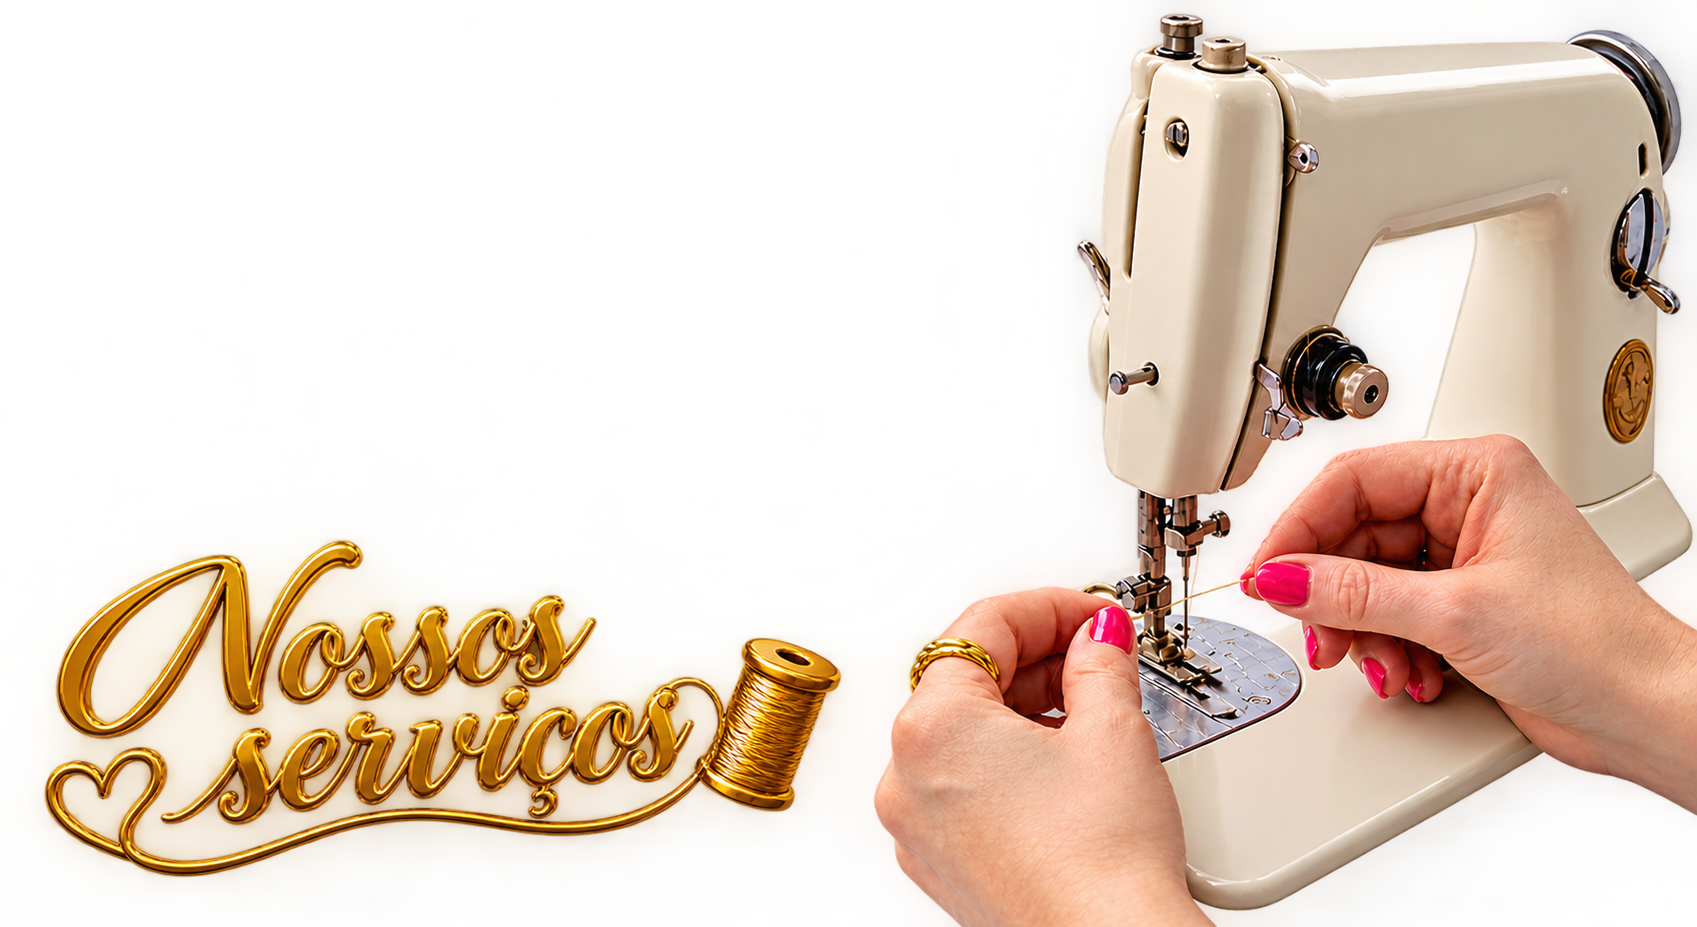
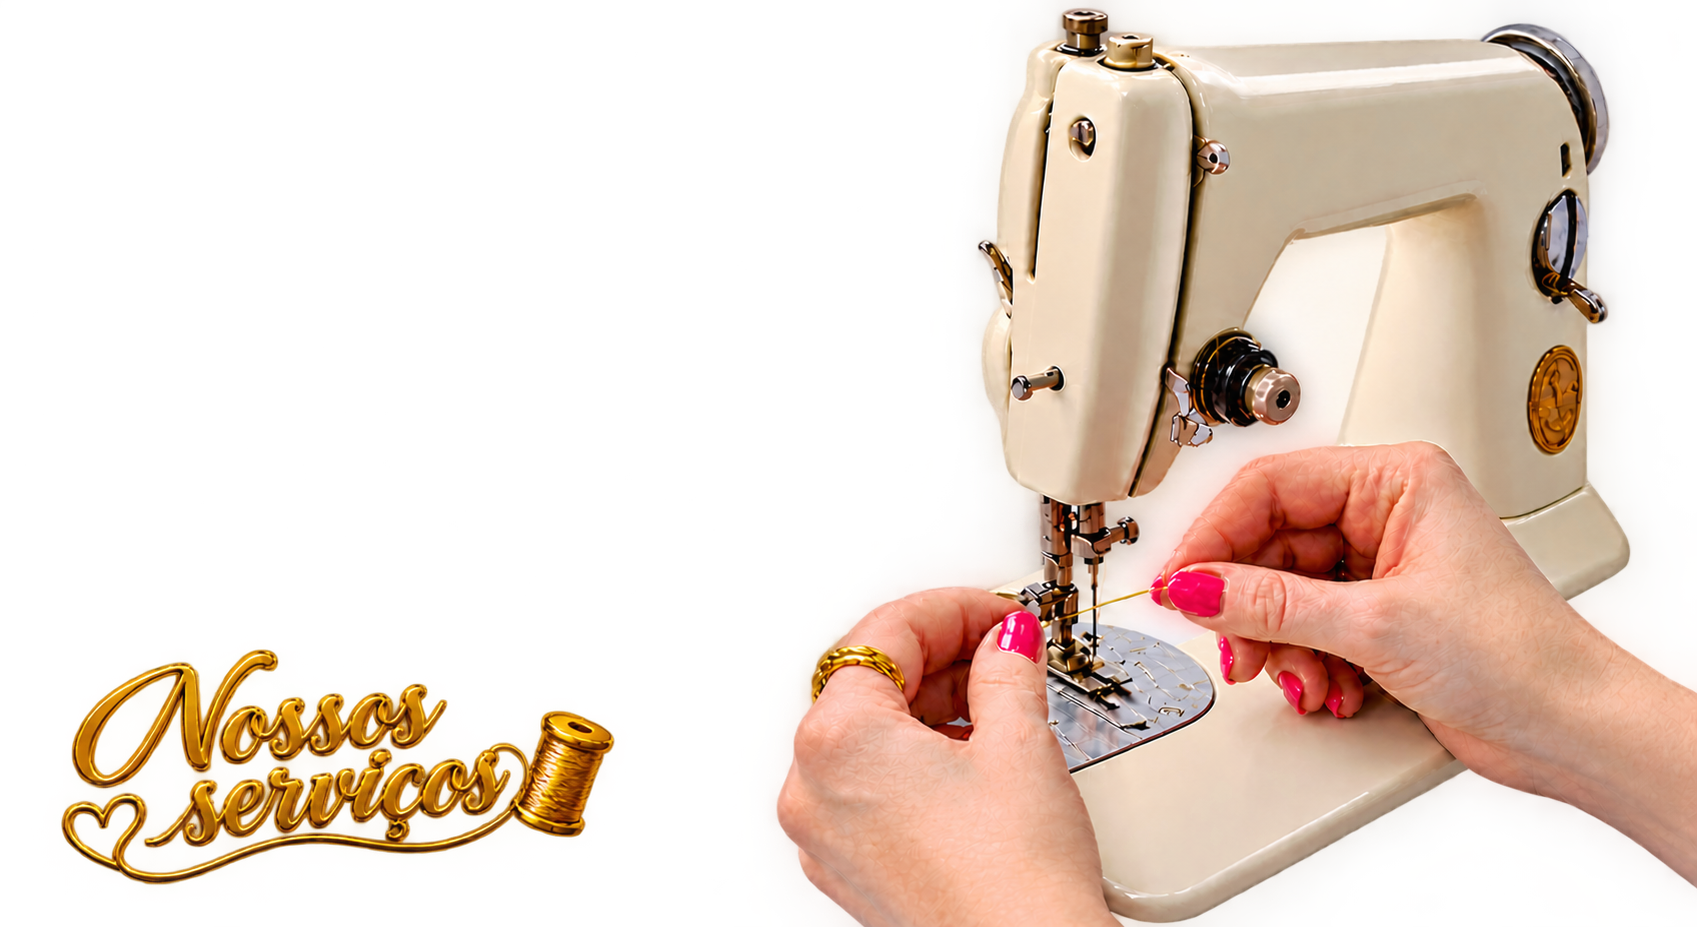
Add files via upload

diff --git a/index.html b/index.html
@@ -11,9 +11,11 @@
 <link rel="preconnect" href="https://fonts.gstatic.com" crossorigin>
 <link href="https://fonts.googleapis.com/css2?family=Bilbo+Swash+Caps&family=Lora:ital,wght@0,400..700;1,400..700&display=swap" rel="stylesheet">
 
+<style> li::marker{color:Gold}</style>
+
 
 <style>
-h2{font-family:"Lora:ital",serif;font-size:28px}
+h2{font-family:"Lora:ital",serif;font-size:20px}
 h1{font-family:"Great Vibes",serif;font-size:70px}
 
 body{background-image:url("Flor de fundo do site.png");color:white;background-size:cover;background-repeat:no repeat;background-attachment:fixed;background-position:center}
@@ -41,20 +43,21 @@ img{border:5px solid none} </style></head>
 <script> function SaibaMais1() {let texto=document.getElementById("informação")
 if(texto.style.display==="none"){texto.style.display="block";}else{texto.style.display= "none";}} </script>
 
-<h1><a href="https://wa.me/5519991768072"><br><img src="Whats app Icone.png" width="10%"></a>
+<h1><a href="https://wa.me/5519991768072"><br><img src="Whats app Icone.png" width="15%"></a>
 
 
 <a href="https://www.google.com.br/maps/dir/-23.053448,-47.0130342/13285-880,+R.+Jo%C3%A3o+Luis+Rodrigues+-+Capela,+Vinhedo+-+SP/@-23.05406,-47.0128363,21z/data=!4m8!4m7!1m0!1m5!1m1!1s0x94cf32e4f0ea3857:0xa990326e3dda46ef!2m2!1d-47.0125546!2d-23.05406?entry=ttu&g_ep=EgoyMDI2MTAxOS4wIKXMDSoASAFQAw%3D%3D">
-<h2><img src="Google maps icone.png" width="10%"></a>
+<h2><img src="Google maps icone.png" width="15%"></a>
 
 <img src="Nossos serviços Titulo.png" width="100%">
 
-<ul><p><h2><li><span style="color:white">Reparos em roupas</span></p>
-<p><li><span style="color:white">Ajustes de roupas/Trocas de ziperes</li></span></p>
-<p><li><span style="color:white">Barra comum/Barra original de calça jeans</li></span></p>
-<li><span style="color:white">Diminuição de gancho</li></span></p>
-<p><li><span style="color:white">Barra de vestido de festa(bainha lenço)</li></span></p>
-<p><li><span style="color:white">Troca de elastico (Shorts/Calças)</li></p></ul></body></span></h2>
+<ul><li><h2 style="color:white">Reparos em roupas</h2></li>
+<li><h2 style="color:white">Ajustes de roupas/Trocas de ziperes</h2></li>
+<li><h2 style="color:white">Barra comum/Barra original de calça jeans</h2></li>
+<li><h2 style="color:white">Diminuição de gancho</h2></li>
+<li><h2 style="color:white">Barra de vestido de festa(bainha lenço)</h2></li>
+<li><h2 style="color:white">Troca de elastico (Shorts/Calças)</h2></li></ul>
+
 
 
 <img src="Certificado.jpg" width="100%">
